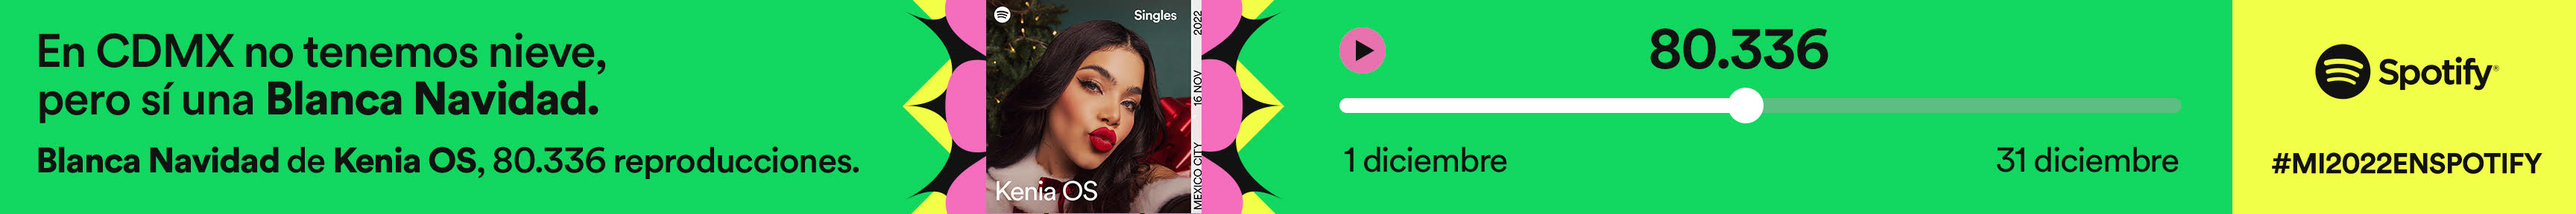
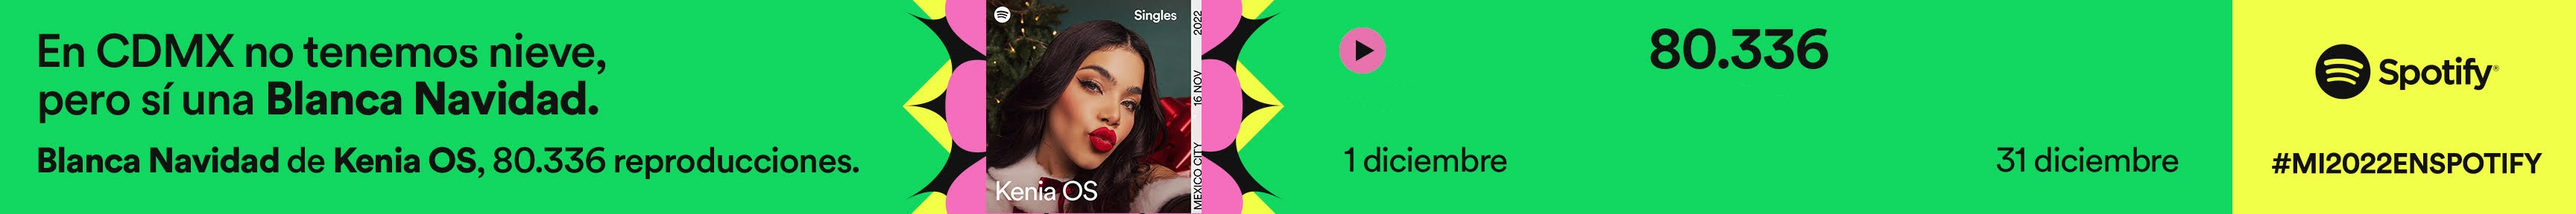
[FIX] fix migration user and finish creative

diff --git a/resources/views/track.blade.php b/resources/views/track.blade.php
@@ -34,41 +34,45 @@
     .range-custom{
         background-color: #18d464;
         position: absolute;
-        top: 60px;
-        left: 1800px;
+        top: 130px;
+        left: 1796px;
     }
 
-    .form-range::-webkit-slider-thumb {
-        width: 1rem;
-        height: 1rem;
-        margin-top: -.25rem;
-        background-color: white;
-        border: 0;
-        border-radius: 1rem;
-        -webkit-transition: background-color .15s ease-in-out, border-color .15s ease-in-out, box-shadow .15s ease-in-out;
-        transition: background-color .15s ease-in-out, border-color .15s ease-in-out, box-shadow .15s ease-in-out;
+    #myinput {
+        background: linear-gradient(to right, white 0%, white 100%, #A9A9A9 0%, #A9A9A9 100%);
+        border: solid 2px white;
+        border-radius: 8px;
+        height: 7px;
+        width: 356px;
+        outline: none;
+        transition: background 450ms ease-in;
         -webkit-appearance: none;
-        appearance: none
     }
 
-    .form-range::-moz-range-thumb {
-        width: 1rem;
-        height: 1rem;
-        background-color: white;
-        border: 0;
-        border-radius: 1rem;
-        -moz-transition: background-color .15s ease-in-out, border-color .15s ease-in-out, box-shadow .15s ease-in-out;
-        transition: background-color .15s ease-in-out, border-color .15s ease-in-out, box-shadow .15s ease-in-out;
-        -moz-appearance: none;
-        appearance: none
+    input[type='range']::-webkit-slider-thumb {
+        width: 10px;
+        -webkit-appearance: none;
+        height: 10px;
+        cursor: ew-resize;
+        background: white;
+        box-shadow: -20px 0 0 20px white;
+        border-radius: 60%;
     }
+
 
 </style>
 <div class="contenedor">
 <img src="{{asset('img/unnamed.jpg')}}" width="3456" height="288">
     <div class="text">{{number_format($reproductions)}}</div>
     <div class="text-2">{{number_format($reproductions)}}</div>
-    <div class="range-custom"><input type="range" class="form-range" min="1" max="31" value="{{date('d')}}" ></div>
+    <div class="range-custom"><input type="range" id="myinput" min="1" max="31" value="{{date('d')}}" style="width: 1150px; height: 20px;" ></div>
 </div>
+
+<script>
+    document.getElementById("myinput").oninput = function() {
+        var value = (this.value-this.min)/(this.max-this.min)*100
+        this.style.background = 'linear-gradient(to right, white 0%, #white ' + value + '%, #fff ' + value + '%, grey 100%)'
+    };
+</script>
 </BODY>
 </HTML>

diff --git a/database/migrations/2014_10_12_000000_create_users_table.php b/database/migrations/2014_10_12_000000_create_users_table.php
@@ -11,7 +11,7 @@ return new class extends Migration
      *
      * @return void
      */
-    public function ♠up()
+    public function up()
     {
         Schema::create('users', function (Blueprint $table) {
             $table->id();
